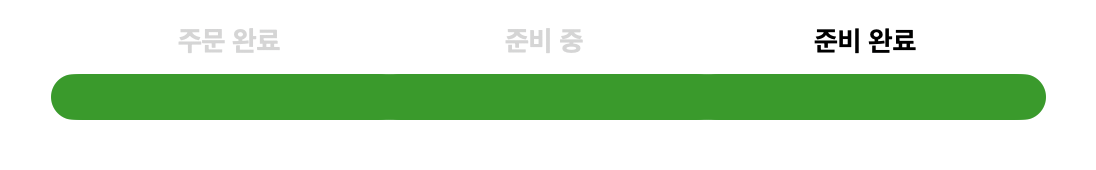
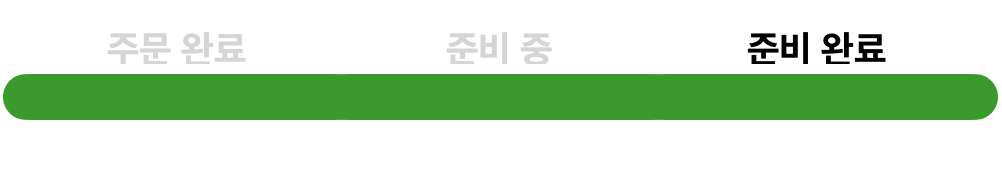
Fix:주문 상태 카드 UI 수정

diff --git a/lib/screens/mainMenus/main/mainPage.dart b/lib/screens/mainMenus/main/mainPage.dart
@@ -19,7 +19,7 @@ class MainPage extends StatelessWidget {
 
               // 'Hello'
               Container(
-                height: 210.0,
+                // height: 210.0,
                 padding: const EdgeInsets.only(top: 100, left: 10),
                 child: Row(
                   crossAxisAlignment: CrossAxisAlignment.start,
@@ -40,26 +40,11 @@ class MainPage extends StatelessWidget {
                   ],
                 ),
               ),
+              const SizedBox(height: 30,),
 
-              // 멤버쉽 카드 또는 주문 상태
-              // Container(
-              //   height: 200,
-              //   // margin: EdgeInsets.symmetric(horizontal: 20.0),
-              //   decoration: BoxDecoration(
-              //       color: Colors.white,
-              //       borderRadius: BorderRadius.circular(5),
-              //       boxShadow: [
-              //         BoxShadow(
-              //           color: Colors.grey.withOpacity(0.3),
-              //           blurRadius: 5,
-              //           spreadRadius: 2
-              //         )
-              //       ]
-              //   ),
-              // ),
-              OrderStatus(),
+              const OrderStatus(),
 
-              SizedBox(height: 30,),
+              const SizedBox(height: 30,),
 
               // 소식(What's New)
               Row(
@@ -187,6 +172,7 @@ class _OrderStatusState extends State<OrderStatus> {
             graphImage = 'image/IMG_order_status_inProcess.png';
           }
 
+          // 카드 이미지
           return orderProcessStateCard(cardTitlePhrase, cardSubTitlePhrase, graphImage);
         }
         return const CircularProgressIndicator();
@@ -195,19 +181,18 @@ class _OrderStatusState extends State<OrderStatus> {
   }
 
 
-
+// 카드 이미지
   Widget orderProcessStateCard(String cardTitlePhrase, String cardSubTitlePhrase, String graphImage) {
     return Container(
-      height: 200,
-      padding: const EdgeInsets.all(10.0),
+      padding: const EdgeInsets.all(20.0),
       decoration: BoxDecoration(
           color: Colors.white,
           borderRadius: BorderRadius.circular(5),
           boxShadow: [
             BoxShadow(
                 color: Colors.grey.withOpacity(0.3),
-                blurRadius: 5,
-                spreadRadius: 2
+                blurRadius: 1,
+                // spreadRadius: 2
             )
           ]
       ),
@@ -215,6 +200,7 @@ class _OrderStatusState extends State<OrderStatus> {
       child: Column(
         crossAxisAlignment: CrossAxisAlignment.start,
         children: [
+          // 주문 상태 메인 문구
           Text(
             cardTitlePhrase,
             style: const TextStyle(
@@ -223,7 +209,8 @@ class _OrderStatusState extends State<OrderStatus> {
             ),
           ),
 
-          const SizedBox(height: 10.0,),
+          const SizedBox(height: 15.0,),
+          // 주문 상태 설명 문구
           Text(
             cardSubTitlePhrase,
             style: const TextStyle(
@@ -232,9 +219,13 @@ class _OrderStatusState extends State<OrderStatus> {
             ),
           ),
 
+          const SizedBox(height: 25,),
+
+          // 주문 상태 그래프 이미지
           Image.asset(graphImage),
 
-          Text('주문내역 확인하기')
+          const SizedBox(height: 15,),
+          const Text('주문내역 확인하기')
         ],
       ),
     );
